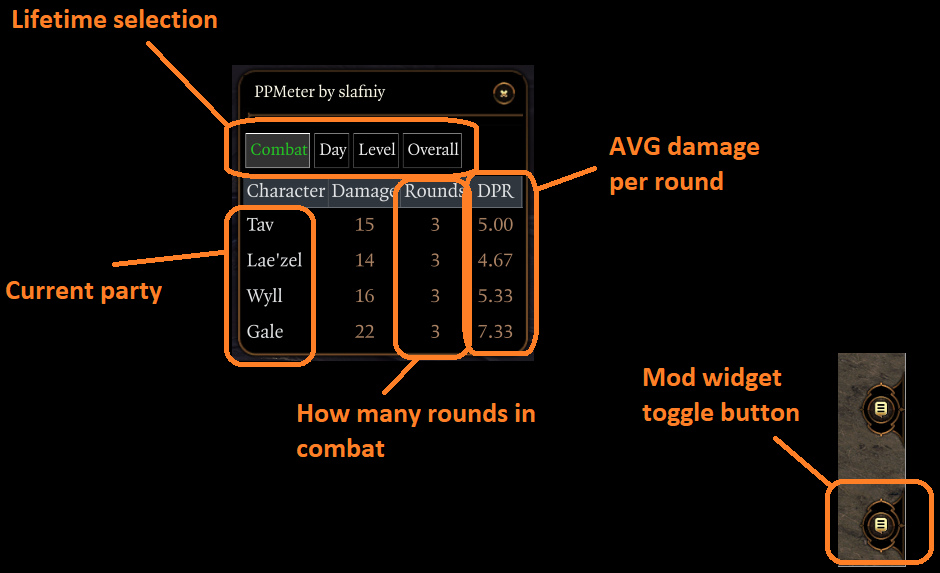
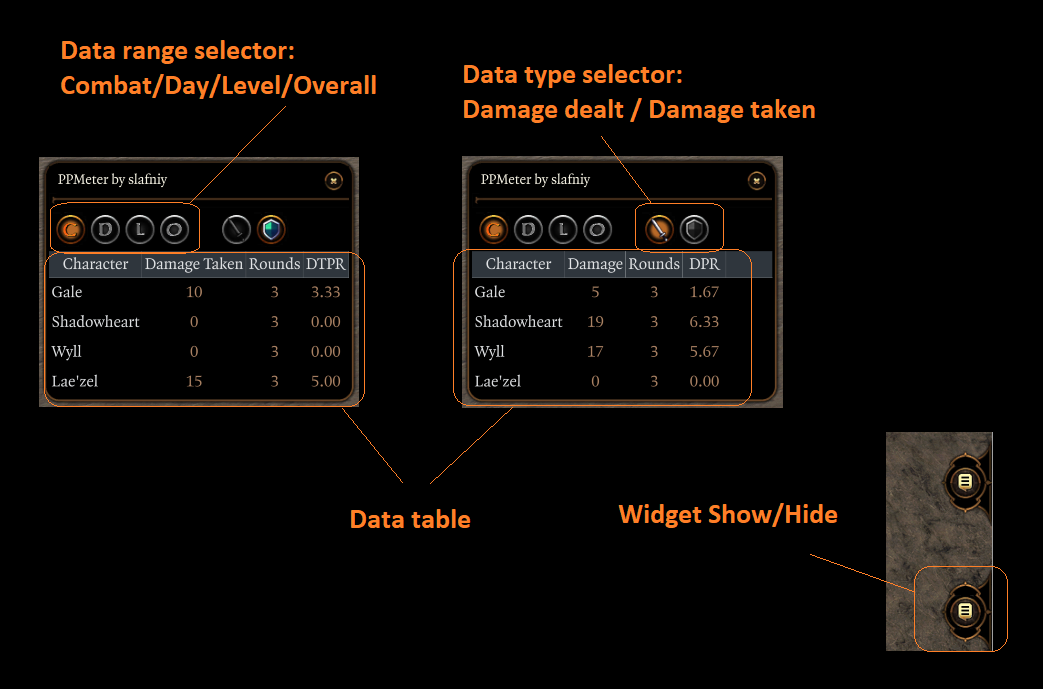
Version 2.1.0.37 published

Changed region(s): [[0.0, 0.0, 1.0, 1.0]]

diff --git a/README.md b/README.md
@@ -1,5 +1,5 @@
 # PPMeter - Baldur's Gate 3 damage counter mod
-Party Performance Meter mod - shows how much damage each character deals.
+Party Performance Meter mod - shows how much damage each character deals and takes.
 
 Mod page: https://mod.io/g/baldursgate3/m/ppmeter-damage-statistics-by-slafniy
 
